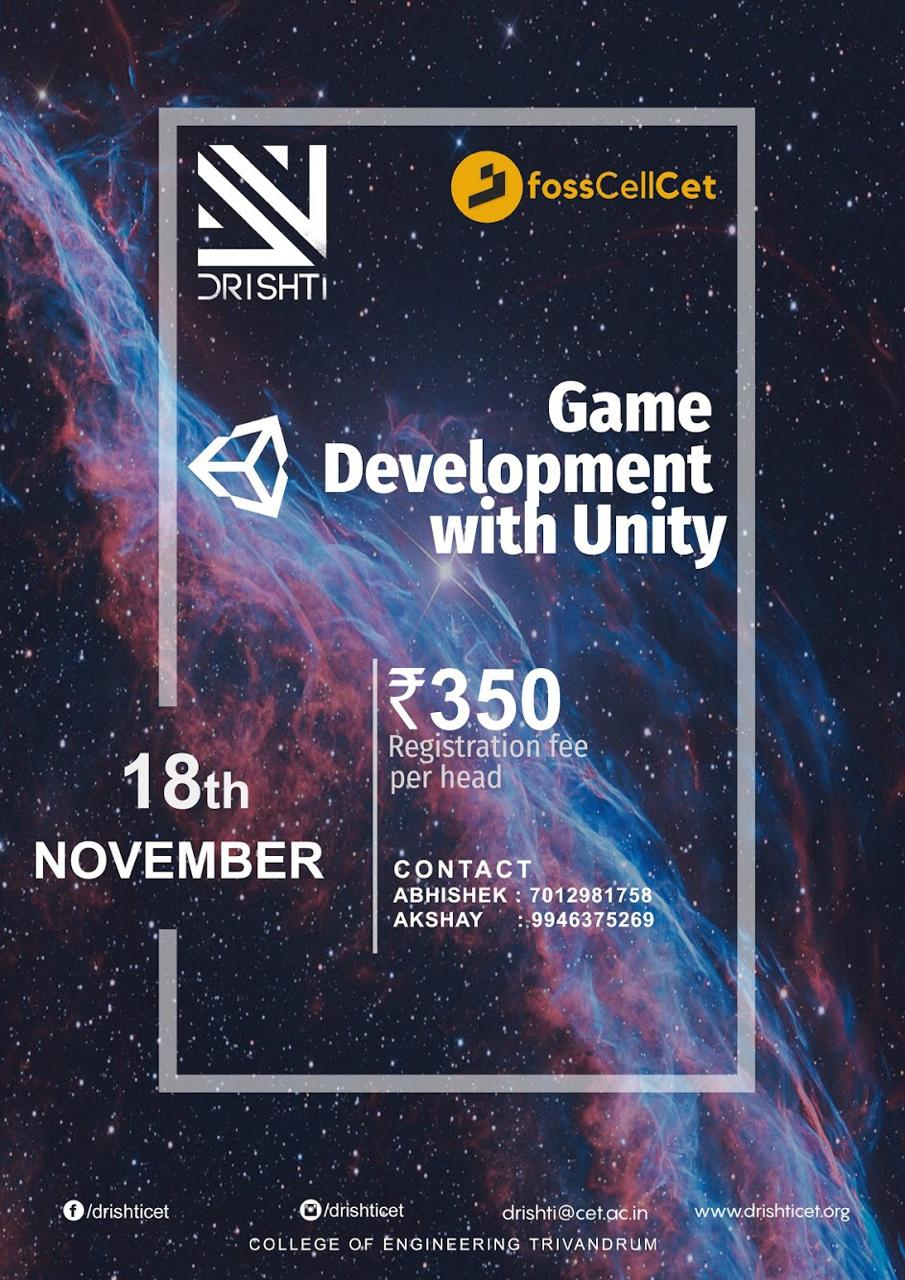
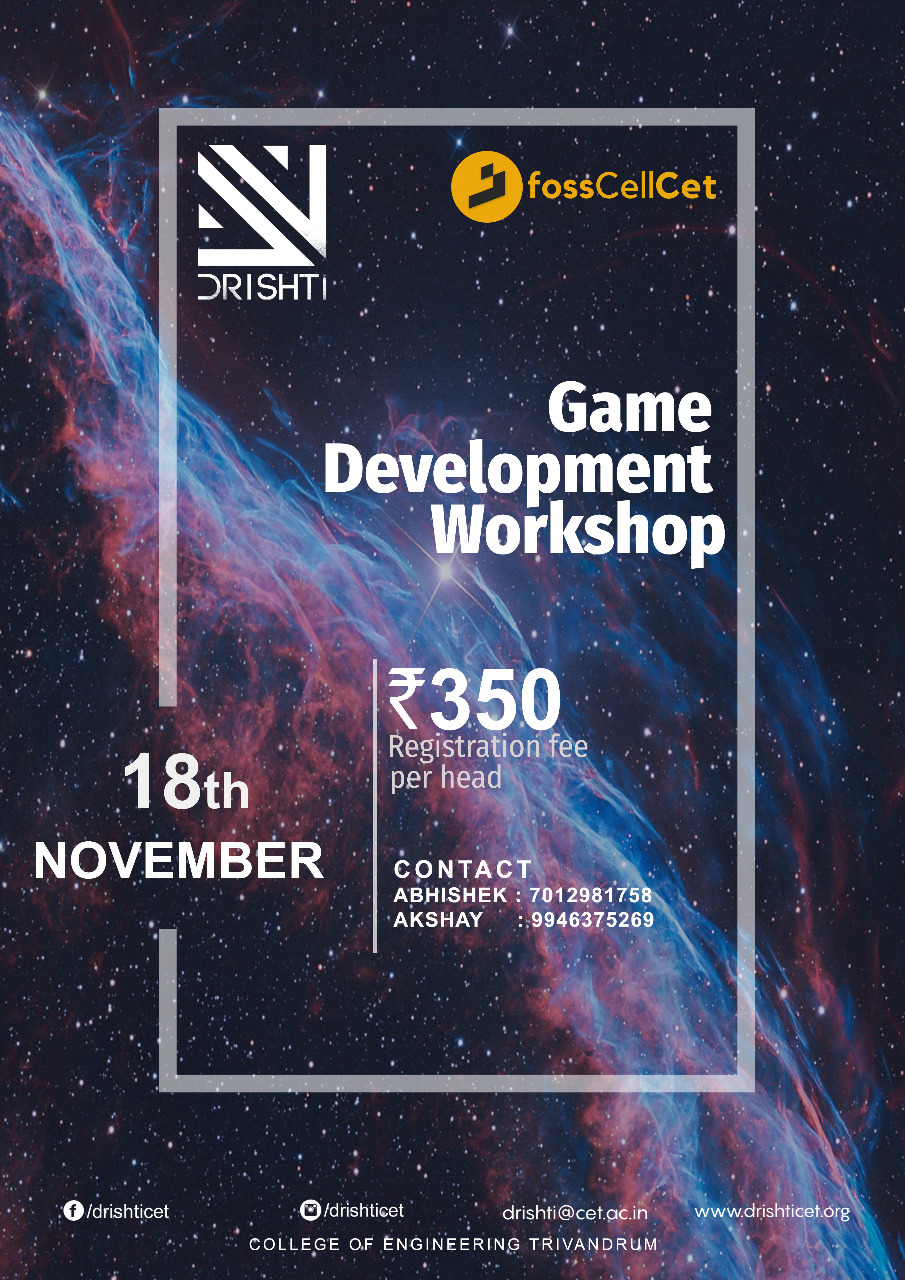
unity issue

diff --git a/departments/cs.html b/departments/cs.html
@@ -88,8 +88,8 @@
           <div class="card card-paper card3" id="workshops">
                <div class="card-body wstile" >
                    <img src="../img/workshops/unity.svg">
-                   <h4 class="card-title wsname" style="text-align: center;">Game Development with Unity</h4>
-                   <h5 class="card-subtitle">Foss Cell Cet</h5>
+                   <h4 class="card-title wsname" style="text-align: center;">Game Development</h4>
+                   <h5 class="card-subtitle">Foss Cell Cet <span style="color:red;">NEW!</span></h5>
                </div>
            </div>
        </a>
@@ -330,12 +330,12 @@ Ankith +91 9495337488
             <img src="../img/workshops/unity.jpeg" class="wsmodalimage" >
           </div>
           <div class="sm-12 md-8 lg-8 col align-middle" style="padding: 5vh;margin: 0">
-            <h1 class="article-title" align="center" >Game Development with Unity</h1>
+            <h1 class="article-title" align="center" >Game Development</h1>
             <p class="text-lead" style="margin:0;font-size: 1.0rem; text-align: justify;"><strong>From rock-paper-scissor to gaming laptops, the gaming experience has come a long way.</strong><br><br>
            The thrill of
  winning a race in NFSMW and doing headshots in CSGO are just awesome, but we can do more! Brace
  yourself for a whole new world!<br><br>
-           DRISHTI, in association with fosscellcet presents Game Development Workshop powered by unity.
+           DRISHTI, in association with fosscellcet presents Game Development Workshop .
  Feast your eyes on new virtual gadgets and features as the workshop takes you through an extravaganza
  of Augmented Reality! Know how to create worlds like none other and be worshipped like a Rockstar.
  AR games will take over the near future and you can choose to either be the cause or the effect.
@@ -363,7 +363,7 @@ Ankith +91 9495337488
               </div>
                <div class="sm-12 md-6 lg-6 col align-middle" style="padding: 0;margin-top: 1vh;">
                 <h3 style="margin:0;font-size: 1.4rem;">Contact</h3><br/>
-                <p style="margin:0">Abhishek Nambiar : 9497806656</p>
+                <p style="margin:0">Abhishek Nambiar : 7012981758<br>Akshay : 9946375269</p>
               </div>
             </div>
 
